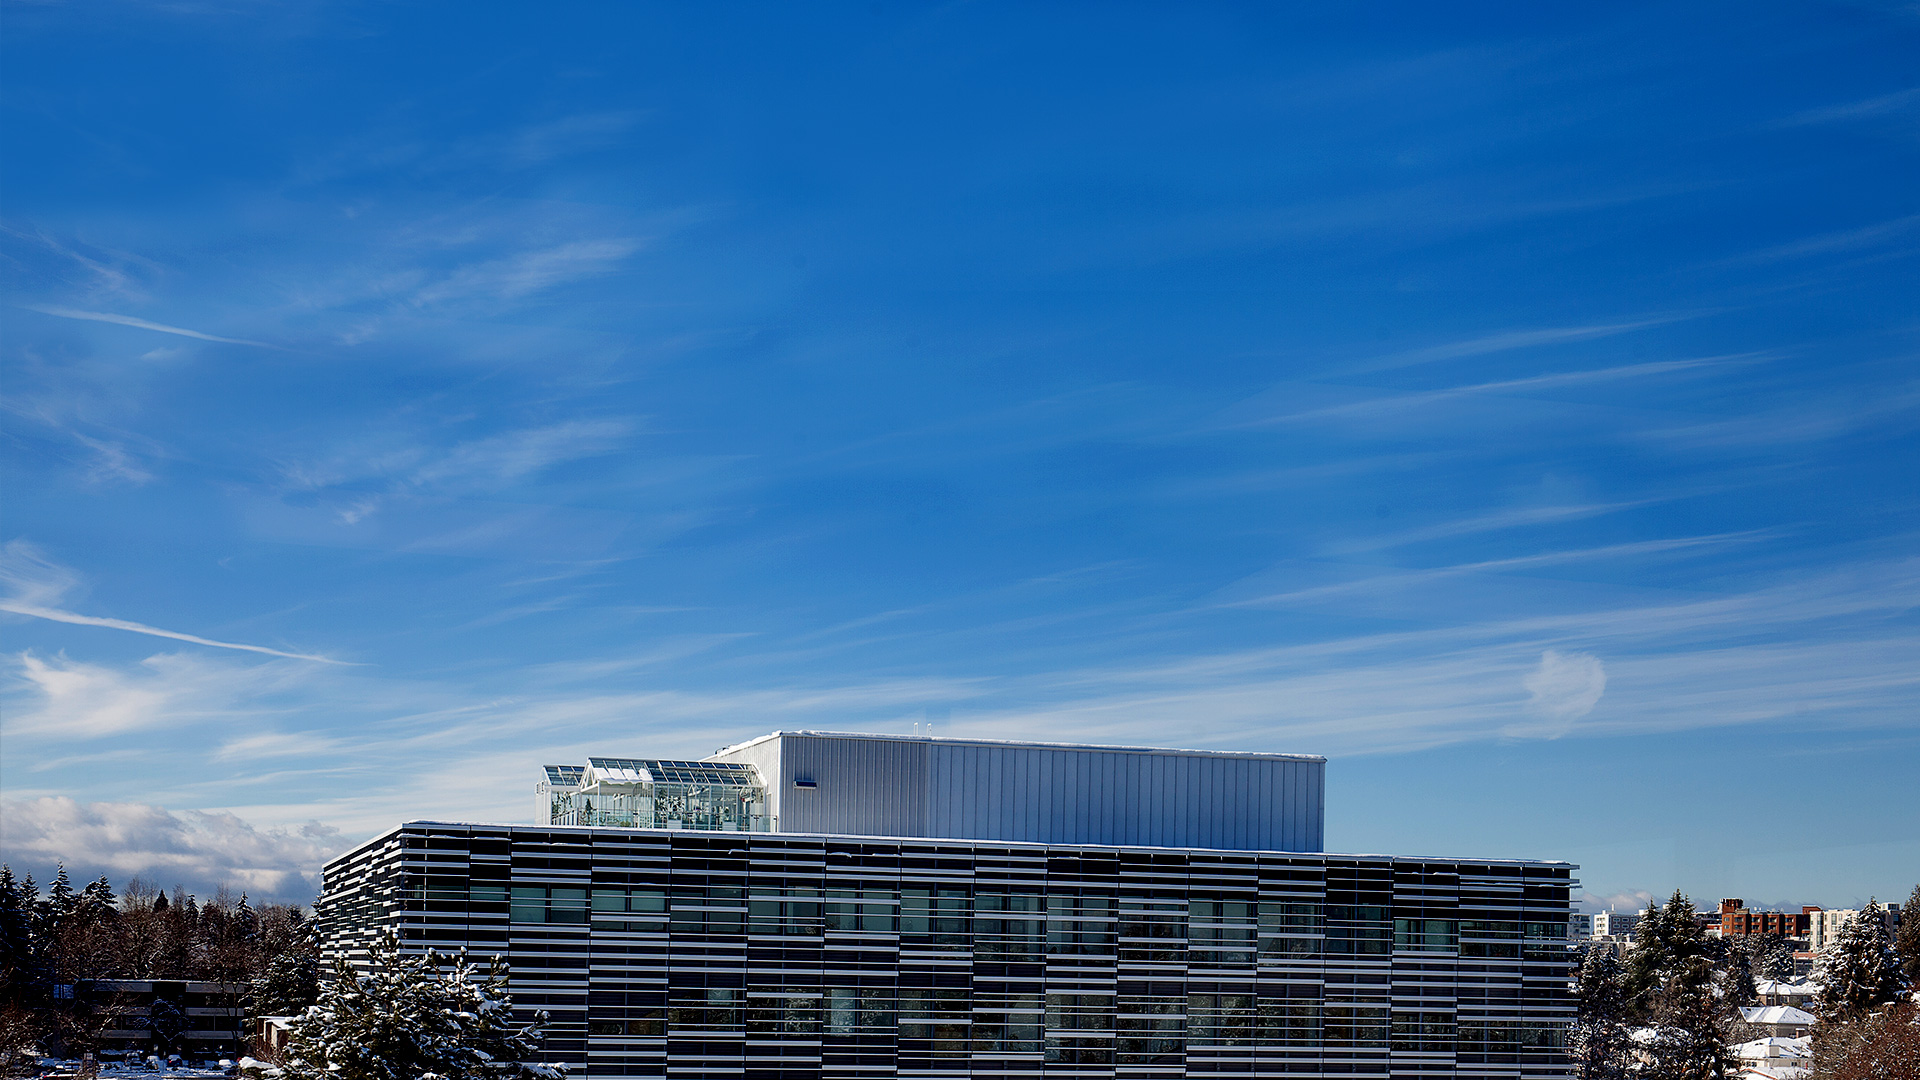
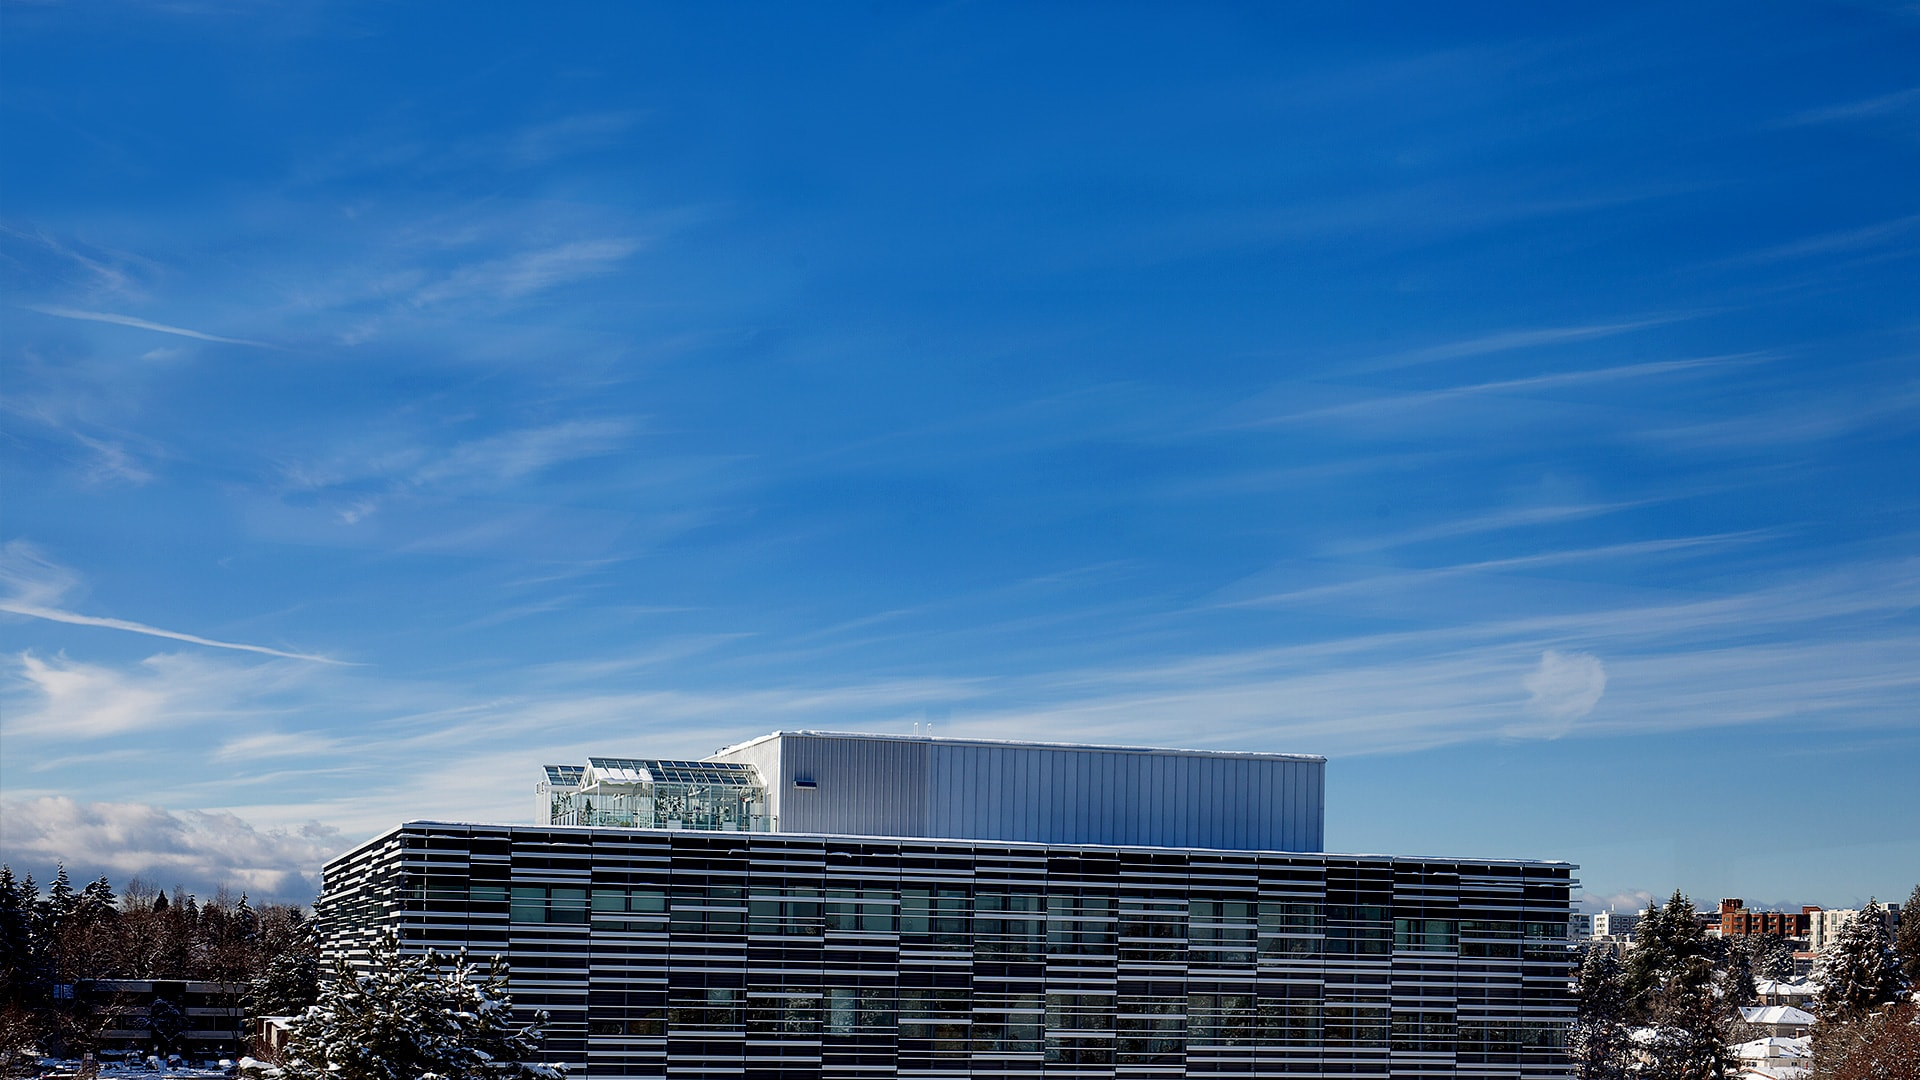
minified images and added some cahcing protocols

diff --git a/index.html b/index.html
@@ -4,6 +4,7 @@
     <meta charset="UTF-8">
     <meta name="viewport" content="width=device-width, initial-scale=1.0">
     <meta http-equiv="X-UA-Compatible" content="ie=edge">
+    <meta http-equiv="Cache-control" content="public">
     <script src="//use.typekit.net/qbl8uug.js"></script>
     <script>
         try {
@@ -16,33 +17,30 @@
     <link rel="stylesheet" href="css/style.css">
     <link href="https://fonts.googleapis.com/css?family=Bitter:400,400i,700|Lato:200,200i,400,400i,700,700i&subset=latin-ext" rel="stylesheet">
 
-    <!-- DOCUMENT SCRIPTS -->
-    <script src="js/moment.min.js" charset="utf-8"></script>
-    <script src="js/jquery.min.js" charset="utf-8"></script>
-    <script src="js/script.js" charset="utf-8"></script>
-    <script src="js/jquery.simpleWeather.js" charset="utf-8"></script>
 
-    <script type="text/javascript">
+
+    <!-- <script type="text/javascript">
     // Refresh page every 60 seconds to ensure digital displays stay current.
       setTimeout(function(){
         location = ''
     },600000)
-    </script>
+    </script> -->
 </head>
 <body onload = "timeOfDay()">
     <div id="container">
 
     <div id="date-time-panel">
-        <div id="time-panel">
             <h2 class="time"></h2><span class="meridiem"></span>
-        </div>
-        <div id="date-weather-panel">
             <p class="date"></p>
             <p class="weather"></p>
-        </div>
         <h3 class="greeting"></h3>
     </div>
 
     </div>
+    <!-- DOCUMENT SCRIPTS -->
+    <script src="js/moment.min.js" charset="utf-8"></script>
+    <script src="js/jquery.min.js" charset="utf-8"></script>
+    <script src="js/jquery.simpleWeather.js" charset="utf-8"></script>
+    <script src="js/script.js" charset="utf-8"></script>
 </body>
 </html>

diff --git a/sass/style.sass b/sass/style.sass
@@ -33,12 +33,14 @@ $white: #fff
     .time, .date, .weather, .greeting
         font-weight: 600
     .date, .weather
+        margin-top: -75px
         font-size: 70px
         display: inline-block
     .time
         font-size: 240px
         text-transform: lowercase
         display: inline-block
+        margin-top: 90px
     .weather
         text-align: right
         padding-left: 10%
@@ -52,11 +54,14 @@ $white: #fff
         display: inline
         margin-left: 15px
 
+    #time-panel
+
+
 @font-face
     font-family: 'artill_clean_icons'
     font-style: normal
     font-weight: normal
-    src: local('artill_clean_icons'), url('./font/artill_clean_icons.otf') format('opentype')
+    src: local('artill_clean_icons'), url('font/artill_clean_icons.otf') format('opentype')
 
 i
     color: $white

diff --git a/css/style.css b/css/style.css
@@ -31,6 +31,7 @@
   font-weight: 600;
 }
 #date-time-panel .date, #date-time-panel .weather {
+  margin-top: -75px;
   font-size: 70px;
   display: inline-block;
 }
@@ -38,6 +39,7 @@
   font-size: 240px;
   text-transform: lowercase;
   display: inline-block;
+  margin-top: 90px;
 }
 #date-time-panel .weather {
   text-align: right;
@@ -59,7 +61,7 @@
   font-family: "artill_clean_icons";
   font-style: normal;
   font-weight: normal;
-  src: local("artill_clean_icons"), url("./font/artill_clean_icons.otf") format("opentype");
+  src: local("artill_clean_icons"), url("font/artill_clean_icons.otf") format("opentype");
 }
 i {
   color: #fff;
